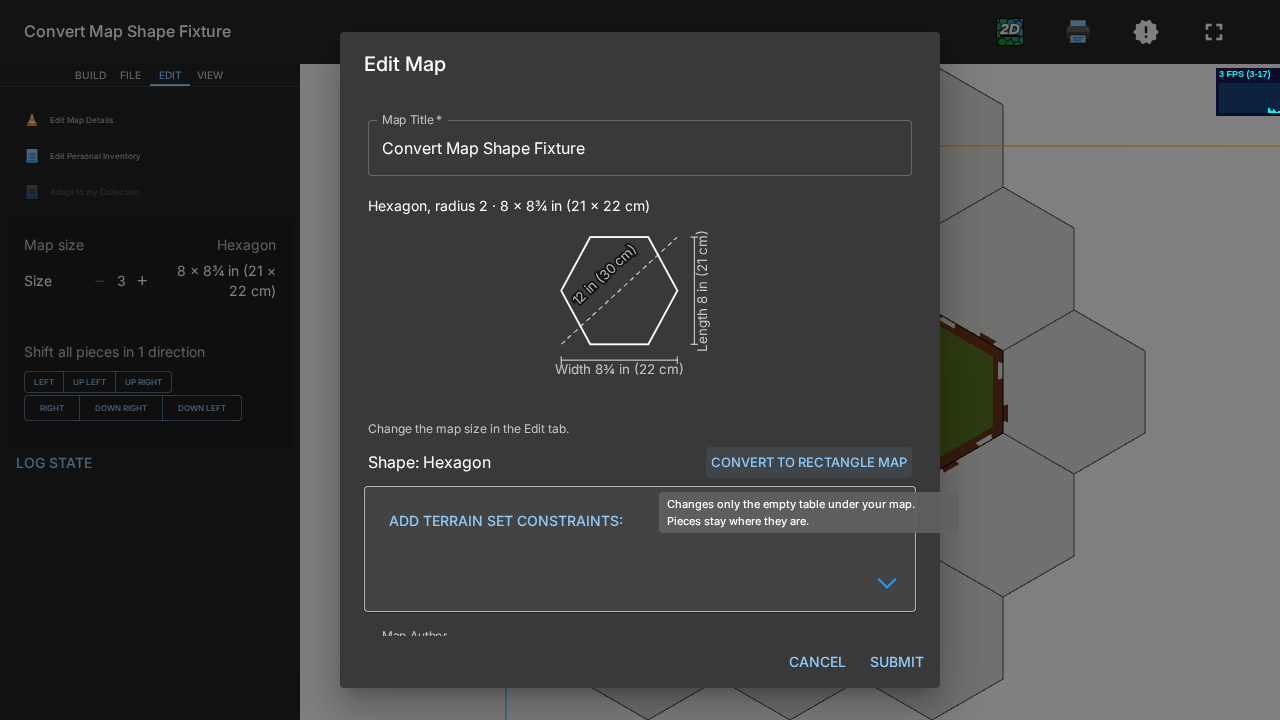
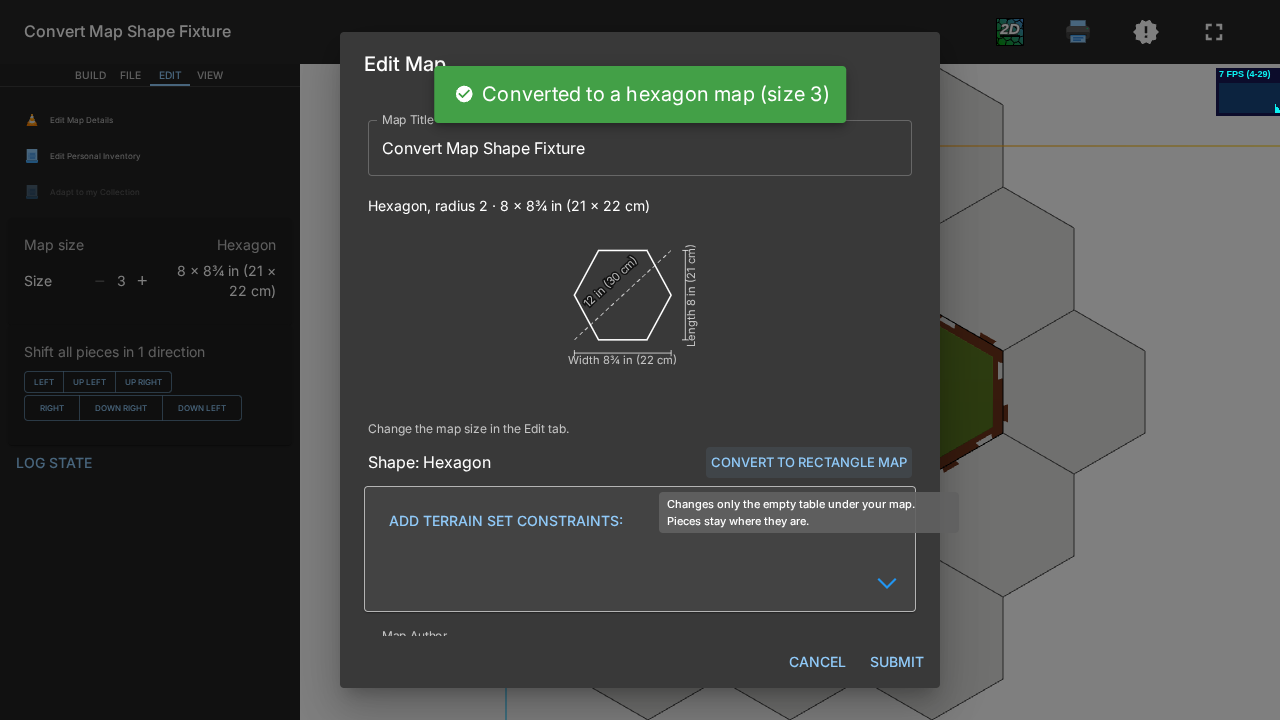
Use hexagon size in conversion feedback
Pad the diagram viewBox for rotated length labels and verify they remain in bounds.

Changed region(s): [[0.3125, 0.0917, 0.6875, 0.1833], [0.4375, 0.3361, 0.5625, 0.5194]]

diff --git a/e2e/map-size-display.spec.ts b/e2e/map-size-display.spec.ts
@@ -12,6 +12,28 @@ const rectangleMap = {
   version: 1,
 }
 
+async function expectLengthLabelWithinDiagram(
+  diagram: import('@playwright/test').Locator,
+) {
+  const diagramBounds = await diagram.boundingBox()
+  const lengthLabelBounds = await diagram
+    .locator('text')
+    .filter({ hasText: 'Length' })
+    .boundingBox()
+  if (!diagramBounds || !lengthLabelBounds) {
+    throw new Error('Could not measure the map size diagram')
+  }
+
+  expect(lengthLabelBounds.x).toBeGreaterThanOrEqual(diagramBounds.x)
+  expect(lengthLabelBounds.x + lengthLabelBounds.width).toBeLessThanOrEqual(
+    diagramBounds.x + diagramBounds.width,
+  )
+  expect(lengthLabelBounds.y).toBeGreaterThanOrEqual(diagramBounds.y)
+  expect(lengthLabelBounds.y + lengthLabelBounds.height).toBeLessThanOrEqual(
+    diagramBounds.y + diagramBounds.height,
+  )
+}
+
 test('shows live map size controls and conversion across map dialogs', async ({
   page,
 }) => {
@@ -49,6 +71,8 @@ test('shows live map size controls and conversion across map dialogs', async ({
     'Length 4 · Width 5 hexes',
   )
   await expect(detailsDialog.getByText('Shape: Rectangle')).toBeVisible()
+  const detailsDiagram = detailsDialog.getByTestId('map-size-diagram')
+  await expectLengthLabelWithinDiagram(detailsDiagram)
   await saveEvidence(page, 'map-size-display-details')
   await detailsDialog
     .getByRole('button', { name: 'Convert to hexagon map' })
@@ -58,7 +82,7 @@ test('shows live map size controls and conversion across map dialogs', async ({
   ).toBeVisible()
   await expect(detailsDialog.getByText('Shape: Hexagon')).toBeVisible()
   await expect(
-    page.getByText(/Converted to a hexagon map \(radius \d+\)/),
+    page.getByText(/Converted to a hexagon map \(size \d+\)/),
   ).toBeVisible()
   await detailsDialog.getByRole('button', { name: 'Cancel' }).click()
   await expect(page.getByTestId('map-size-length-value')).toHaveText(/^\d+$/)
@@ -84,6 +108,7 @@ test('shows live map size controls and conversion across map dialogs', async ({
   const newMapDialog = page.getByRole('dialog', { name: 'New Map' })
   const createSummary = newMapDialog.getByTestId('map-size-summary')
   const diagram = newMapDialog.getByTestId('map-size-diagram')
+  await expectLengthLabelWithinDiagram(diagram)
   await expect(createSummary).toContainText('Length 20 · Width 20 hexes')
   await expect(diagram).toHaveAttribute(
     'aria-label',

diff --git a/src/layout/MapSizeDiagram.tsx b/src/layout/MapSizeDiagram.tsx
@@ -2,8 +2,10 @@ import { useTheme } from '@mui/material'
 import type { MapPhysicalSize } from '../utils/mapPhysicalSize'
 import { formatMapPhysicalDimension } from '../utils/mapPhysicalSize'
 
-const VIEWBOX_WIDTH = 220
-const VIEWBOX_HEIGHT = 160
+const VIEWBOX_X = -22
+const VIEWBOX_Y = -16
+const VIEWBOX_WIDTH = 264
+const VIEWBOX_HEIGHT = 192
 const DIAGRAM_WIDTH = 270
 const DIAGRAM_HEIGHT = 195
 const TABLE_AREA = {
@@ -65,7 +67,7 @@ export function MapSizeDiagram({
       data-testid="map-size-diagram"
       height={DIAGRAM_HEIGHT}
       role="img"
-      viewBox={`0 0 ${VIEWBOX_WIDTH} ${VIEWBOX_HEIGHT}`}
+      viewBox={`${VIEWBOX_X} ${VIEWBOX_Y} ${VIEWBOX_WIDTH} ${VIEWBOX_HEIGHT}`}
       width={DIAGRAM_WIDTH}
       xmlns="http://www.w3.org/2000/svg"
       style={{ maxWidth: '100%', overflow: 'visible' }}

diff --git a/src/hooks/useConvertMapShape.ts b/src/hooks/useConvertMapShape.ts
@@ -37,7 +37,7 @@ export function useConvertMapShape() {
       message:
         targetShape === 'rectangle'
           ? `Converted to a rectangle map (${result.hexMap.length} × ${result.hexMap.width})`
-          : `Converted to a hexagon map (radius ${result.hexMap.length - 1})`,
+          : `Converted to a hexagon map (size ${result.hexMap.length})`,
       variant: 'success',
     })
   }, [boardPieces, enqueueSnackbar, hexMap, loadMap, savedSelections])

diff --git a/e2e/convert-map-shape.spec.ts b/e2e/convert-map-shape.spec.ts
@@ -69,7 +69,7 @@ test('converts a hexagon map to a rectangle and back without moving pieces', asy
     .getByRole('button', { name: 'Convert to hexagon map' })
     .click()
   await expect(
-    page.getByText(/Converted to a hexagon map \(radius \d+\)/),
+    page.getByText(/Converted to a hexagon map \(size \d+\)/),
   ).toBeVisible()
   await waitForAppReady(page)
   await saveEvidence(page, 'convert-map-shape-hexagon')
